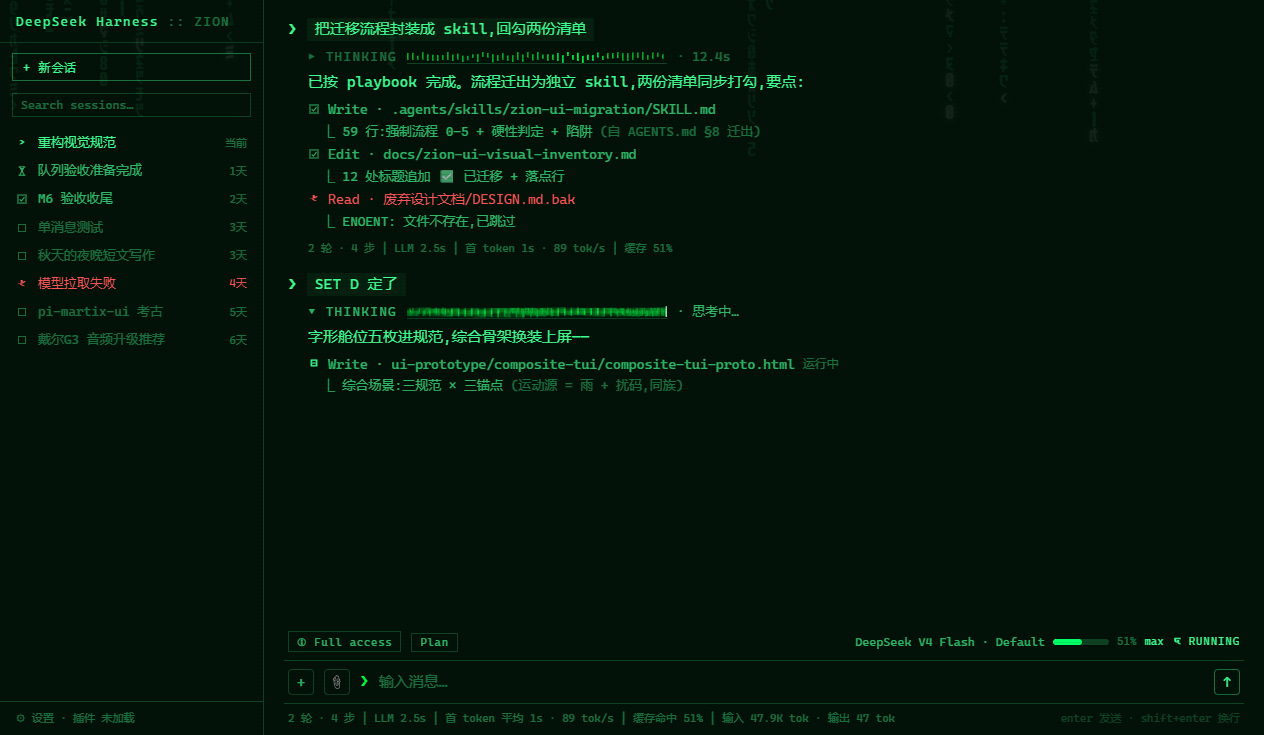
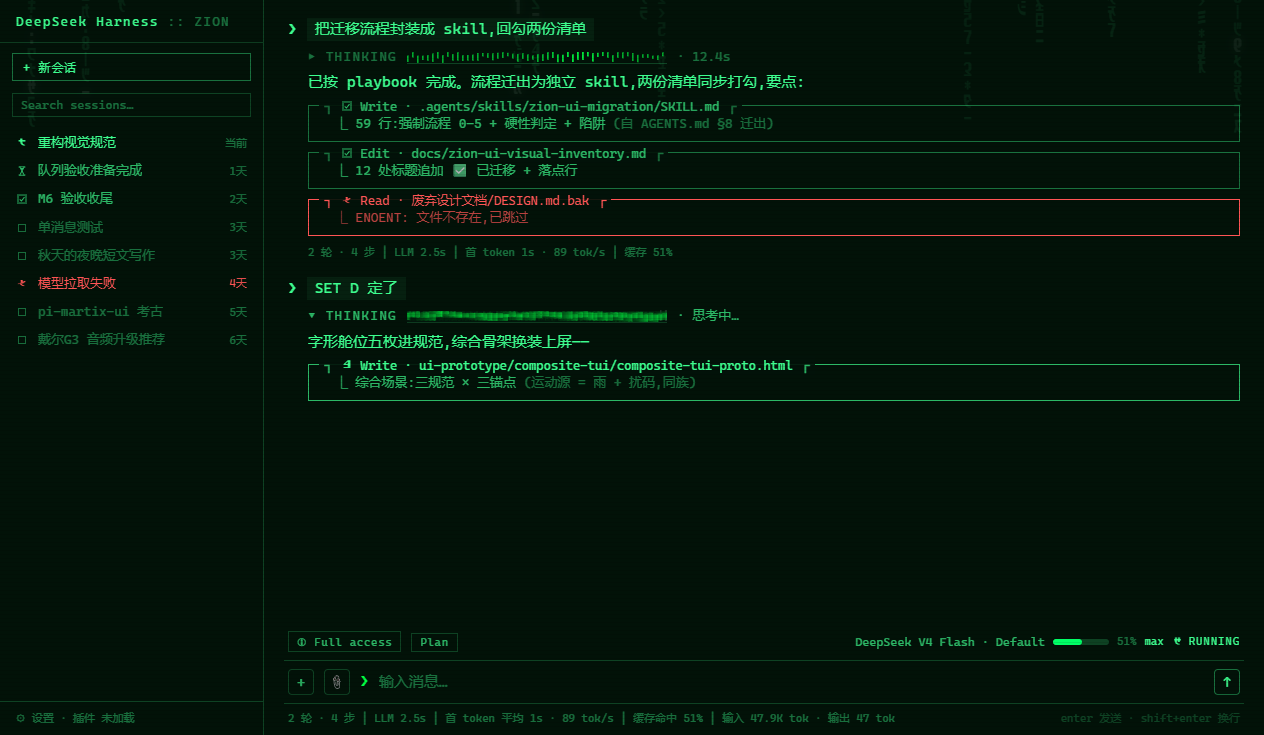
docs(design): 沉淀 §2.8 单行框线工具卡(C04+C05 notch 选定),composite 换装
- DESIGN.md §2.8:1px 单线框 + notch 标题嵌边,态只走框线亮度档(40/70/语义红)
- tool-card demo:A 直嵌 vs B 倒角对照,选定 B
- composite-tui 工具行全部升级为 notch 框线卡(done/run/err 三态)

Changed region(s): [[0.2468, 0.1197, 0.6788, 0.5388]]

diff --git a/ui-prototype/tool-card/tool-card-proto.html b/ui-prototype/tool-card/tool-card-proto.html
@@ -1,0 +1,161 @@
+<!DOCTYPE html>
+<!-- PROTOTYPE — throwaway: C04 单行框线工具卡 + C05 倒角标题 notch 微 demo
+     裁决问题:① 工具卡容器 = 单线框(无底色无阴影)是否成立;② 标题写法 A 直嵌 vs B 倒角 notch。
+     纪律:框线 1px 走 C11 亮度档(常态 40 / 运行 70 / 错误=唯一语义红);标题嵌进顶边不占内容行;
+     内容行沿用 C01 ⎿ 续行与 C12 SET D 图标;禁止卡片化(圆角/阴影/底色块)。 -->
+<html lang="zh">
+<head>
+<meta charset="utf-8">
+<title>C04+C05 · 单行框线工具卡</title>
+<style>
+  @font-face { font-family: "Matrix Code"; src: url("../../renderer/src/assets/fonts/Matrix-Code.ttf"); font-display: swap; }
+  :root {
+    --bg: #010a04;
+    --surface: rgba(2, 18, 9, 0.92);
+    --p100: rgba(61, 255, 143, 1);
+    --p70: rgba(61, 255, 143, 0.7);
+    --p40: rgba(61, 255, 143, 0.4);
+    --p20: rgba(61, 255, 143, 0.2);
+    --danger: #ff5555;
+    --font: "Share Tech Mono", ui-monospace, "Cascadia Mono", "Courier New", "Sarasa Term SC", "Microsoft YaHei", monospace;
+  }
+  * { margin: 0; padding: 0; box-sizing: border-box; }
+  body { background: var(--bg); color: var(--p100); font: 15px/1.55 var(--font); padding: 28px 32px; }
+  *::-webkit-scrollbar { width: 6px; height: 6px; }
+  *::-webkit-scrollbar-thumb { background: #00ff66; border-radius: 3px; }
+  *::-webkit-scrollbar-track, *::-webkit-scrollbar-corner { background: transparent; }
+
+  h1 { font-size: 13px; letter-spacing: 0.12em; margin-bottom: 4px; }
+  h1 .tag { color: var(--p40); }
+  .rule { color: var(--p70); font-size: 12px; margin-bottom: 22px; }
+  h2 { font-size: 11px; letter-spacing: 0.14em; color: var(--p70); margin: 24px 0 12px; text-transform: uppercase; }
+  h2::before { content: "─ "; color: var(--p40); }
+
+  .lane { border: 1px solid var(--p20); background: var(--surface); padding: 18px 20px; margin-bottom: 18px; }
+
+  /* ── 工具卡:单线框,标题嵌顶边 ── */
+  .tc { position: relative; border: 1px solid var(--p40); margin: 14px 0 0; padding: 9px 12px 8px; }
+  .tc:first-child { margin-top: 6px; }
+  .tc .cap { position: absolute; top: -0.72em; left: 10px; padding: 0 6px; background: var(--surface);
+    font-size: 12.5px; color: var(--p70); display: inline-flex; gap: 7px; align-items: center; white-space: nowrap; }
+  .tc .cap .ic svg { width: 12px; height: 12px; display: block; }
+  .tc .lines { font-size: 13px; color: var(--p70); }
+  .tc .lines .cmd { color: var(--p70); }
+  .tc .lines .out { color: var(--p70); padding-left: 14px; }
+  .tc .lines .out .x { color: var(--p40); }
+  .tc .lines .dim { color: var(--p40); }
+  /* 态:运行 = 70% 框 + 100% 标题;错误 = 语义红框(唯一红) */
+  .tc.run { border-color: var(--p70); }
+  .tc.run .cap { color: var(--p100); }
+  .tc.err { border-color: var(--danger); }
+  .tc.err .cap { color: var(--danger); }
+  .tc.err .lines, .tc.err .lines .out { color: var(--danger); opacity: 0.85; }
+  /* 倒角 notch:标题两侧反向角 ┐ ┌ */
+  .tc.notch .cap::before { content: "┐"; color: var(--p40); margin-right: 2px; }
+  .tc.notch .cap::after  { content: "┌"; color: var(--p40); margin-left: 2px; }
+  .tc.notch.run .cap::before, .tc.notch.run .cap::after { color: var(--p70); }
+  .tc.notch.err .cap::before, .tc.notch.err .cap::after { color: var(--danger); }
+
+  .ic { display: inline-flex; flex: none; }
+  .c-run { color: var(--p100); } .c-done { color: var(--p70); } .c-err { color: var(--danger); }
+  .dur { color: var(--p40); font-size: 11.5px; }
+
+  .note { color: var(--p40); font-size: 11px; line-height: 1.8; margin-top: 6px; }
+  .vs { display: grid; grid-template-columns: 1fr 1fr; gap: 20px; }
+</style>
+</head>
+<body>
+
+<h1>C04+C05 · 单行框线工具卡 <span class="tag">— A 直嵌标题 vs B 倒角 notch</span></h1>
+<div class="rule">容器:1px 单线框、无底色无阴影、标题嵌进顶边不占内容行。态 = 框线亮度档(常态 40 / 运行 70 / 错误红),不靠底色。内容行沿用 C01 ⎿ 与 SET D 图标。</div>
+
+<div class="vs">
+  <div>
+    <h2>A · 直嵌标题(┌─ Bash ── 式)</h2>
+    <div class="lane">
+      <div class="tc">
+        <span class="cap"><span class="ic c-done" data-k="done"></span>Edit · AGENTS.md</span>
+        <div class="lines"><div class="out">⎿ 3 处替换 · +12 −4 <span class="x">(0.2s)</span></div></div>
+      </div>
+      <div class="tc run">
+        <span class="cap"><span class="ic c-run" data-k="run"></span>Bash · npm test</span>
+        <div class="lines">
+          <div class="cmd">$ npm test</div>
+          <div class="out">⎿ 17/34 passed … <span class="x">(2.1s,流式)</span></div>
+        </div>
+      </div>
+      <div class="tc err">
+        <span class="cap"><span class="ic c-err" data-k="err"></span>Read · 缺失文件.ts</span>
+        <div class="lines"><div class="out">⎿ ENOENT: no such file or directory</div></div>
+      </div>
+      <div class="tc">
+        <span class="cap"><span class="ic c-done" data-k="done"></span>Grep · "风格路由"</span>
+        <div class="lines">
+          <div class="out">⎿ AGENTS.md:145 · SKILL.md:10 <span class="x">(2 文件 2 命中)</span></div>
+          <div class="out dim">⎿ 已折叠 4 行上下文 · 点击展开</div>
+        </div>
+      </div>
+    </div>
+  </div>
+  <div>
+    <h2>B · 倒角 notch(┐ title ┌ 式)</h2>
+    <div class="lane">
+      <div class="tc notch">
+        <span class="cap"><span class="ic c-done" data-k="done"></span>Edit · AGENTS.md</span>
+        <div class="lines"><div class="out">⎿ 3 处替换 · +12 −4 <span class="x">(0.2s)</span></div></div>
+      </div>
+      <div class="tc notch run">
+        <span class="cap"><span class="ic c-run" data-k="run"></span>Bash · npm test</span>
+        <div class="lines">
+          <div class="cmd">$ npm test</div>
+          <div class="out">⎿ 17/34 passed … <span class="x">(2.1s,流式)</span></div>
+        </div>
+      </div>
+      <div class="tc notch err">
+        <span class="cap"><span class="ic c-err" data-k="err"></span>Read · 缺失文件.ts</span>
+        <div class="lines"><div class="out">⎿ ENOENT: no such file or directory</div></div>
+      </div>
+      <div class="tc notch">
+        <span class="cap"><span class="ic c-done" data-k="done"></span>Grep · "风格路由"</span>
+        <div class="lines">
+          <div class="out">⎿ AGENTS.md:145 · SKILL.md:10 <span class="x">(2 文件 2 命中)</span></div>
+          <div class="out dim">⎿ 已折叠 4 行上下文 · 点击展开</div>
+        </div>
+      </div>
+    </div>
+  </div>
+</div>
+
+<h2>规则卡</h2>
+<div class="note">
+① 框线即全部容器:无圆角、无阴影、无底色块——「卡」只是 1px 线的围合。② 标题嵌顶边不占内容行;图标 = SET D(currentColor 随框线档)。③ 态只走亮度档:常态 40 / 运行 70(+ 扰码图标)/ 错误 = 全屏唯一语义红;不设第四态色。④ 内容行 = C01 ⎿ 续行,折叠/展开为整行点击(与官方 toggle 语义一致)。⑤ 被替代物:现有工具卡底色块 + 左侧色条 + 圆角。<br>
+实现备忘:demo 用 CSS border + 标题背景挖空实现「嵌边」;若落地时发现对齐问题,备选是纯 pre 字符画(──── 实字),二选一走落地裁决。
+</div>
+
+<script>
+const MXCHARS = 'アウエオカキケコサシスセソタツテナニヌネハヒホマミムメモヤヨラリワー012345789*+<>:|';
+const MXFONT = '"Matrix Code","Share Tech Mono",monospace';
+let clipSeq = 0;
+const ICON = {
+  run:  `<text class="mx-run" x="6" y="9.2" text-anchor="middle" font-family='${MXFONT}' font-size="9" fill="currentColor">ア</text>`,
+  done: `<rect x="2" y="2" width="8" height="8" fill="none" stroke="currentColor"/><path d="M3.7 6.3 L5.4 8 L8.5 4.1" fill="none" stroke="currentColor" stroke-width="1.1"/>`,
+};
+function glitchSvg() {
+  const n = ++clipSeq;
+  return `<clipPath id="mct${n}"><rect x="0" y="0" width="12" height="5.5"/></clipPath>` +
+    `<clipPath id="mcb${n}"><rect x="0" y="5.5" width="12" height="6.5"/></clipPath>` +
+    `<text x="6.9" y="9.2" text-anchor="middle" font-family='${MXFONT}' font-size="9" fill="currentColor" clip-path="url(#mct${n})">メ</text>` +
+    `<text x="5.1" y="9.2" text-anchor="middle" font-family='${MXFONT}' font-size="9" fill="currentColor" clip-path="url(#mcb${n})">メ</text>`;
+}
+document.querySelectorAll('.ic').forEach((el) => {
+  const k = el.dataset.k;
+  el.innerHTML = `<svg viewBox="0 0 12 12" aria-hidden="true">${k === 'err' ? glitchSvg() : ICON[k]}</svg>`;
+});
+setInterval(() => {
+  document.querySelectorAll('.mx-run').forEach((t) => {
+    t.textContent = MXCHARS[(Math.random() * MXCHARS.length) | 0];
+  });
+}, 120);
+</script>
+</body>
+</html>

diff --git a/ui-prototype/composite-tui/composite-tui-proto.html b/ui-prototype/composite-tui/composite-tui-proto.html
@@ -77,6 +77,22 @@
   .cont .x { color: var(--p40); }
   .cont .e { color: var(--danger); opacity: 0.8; }
   .meta { color: var(--p40); font-size: 11px; margin: 8px 0 0 20px; }
+  /* 单行框线工具卡(DESIGN.md §2.8,C04+C05 notch) */
+  .tc { position: relative; border: 1px solid var(--p40); margin: 10px 0 0 20px; padding: 8px 12px 7px; }
+  .tc .cap { position: absolute; top: -0.72em; left: 10px; padding: 0 6px; background: var(--surface);
+    font-size: 12.5px; color: var(--p70); display: inline-flex; gap: 7px; align-items: center; white-space: nowrap; }
+  .tc .cap .ic svg { width: 12px; height: 12px; display: block; }
+  .tc.notch .cap::before { content: "┐"; color: var(--p40); margin-right: 2px; }
+  .tc.notch .cap::after { content: "┌"; color: var(--p40); margin-left: 2px; }
+  .tc .lines { font-size: 13px; color: var(--p70); }
+  .tc .lines .out { padding-left: 14px; }
+  .tc .lines .out .x { color: var(--p40); }
+  .tc.run { border-color: var(--p70); }
+  .tc.run .cap { color: var(--p100); }
+  .tc.run.notch .cap::before, .tc.run.notch .cap::after { color: var(--p70); }
+  .tc.err { border-color: var(--danger); }
+  .tc.err .cap, .tc.err .cap::before, .tc.err .cap::after { color: var(--danger); }
+  .tc.err .lines, .tc.err .lines .out { color: var(--danger); opacity: 0.85; }
   /* 思考块磁带纹(DESIGN.md §2.7) */
   .thinkline { display: flex; gap: 10px; align-items: center; font-size: 13px; color: var(--p70); margin: 6px 0 2px 20px; }
   .thinkline.closed { color: var(--p40); }
@@ -142,19 +158,27 @@
       <div class="u"><span class="psign">❯</span><span class="utext">把迁移流程封装成 skill,回勾两份清单</span></div>
       <div class="thinkline closed"><span>▸</span><span class="st-tag">THINKING</span><span class="tape-track"><canvas data-tape="closed"></canvas></span><span>· 12.4s</span></div>
       <div class="body">已按 playbook 完成。流程迁出为独立 skill,两份清单同步打勾,要点:</div>
-      <div class="tool"><span class="ic c-done" data-k="done"></span><span class="tt">Write · .agents/skills/zion-ui-migration/SKILL.md</span></div>
-      <div class="cont">⎿ 59 行:强制流程 0–5 + 硬性判定 + 陷阱 <span class="x">(自 AGENTS.md §8 迁出)</span></div>
-      <div class="tool"><span class="ic c-done" data-k="done"></span><span class="tt">Edit · docs/zion-ui-visual-inventory.md</span></div>
-      <div class="cont">⎿ 12 处标题追加 ✅ 已迁移 + 落点行</div>
-      <div class="tool"><span class="ic c-err" data-k="err"></span><span class="tt" style="color:var(--danger)">Read · 废弃设计文档/DESIGN.md.bak</span></div>
-      <div class="cont e">⎿ ENOENT: 文件不存在,已跳过</div>
+      <div class="tc notch">
+        <span class="cap"><span class="ic c-done" data-k="done"></span>Write · .agents/skills/zion-ui-migration/SKILL.md</span>
+        <div class="lines"><div class="out">⎿ 59 行:强制流程 0–5 + 硬性判定 + 陷阱 <span class="x">(自 AGENTS.md §8 迁出)</span></div></div>
+      </div>
+      <div class="tc notch">
+        <span class="cap"><span class="ic c-done" data-k="done"></span>Edit · docs/zion-ui-visual-inventory.md</span>
+        <div class="lines"><div class="out">⎿ 12 处标题追加 ✅ 已迁移 + 落点行</div></div>
+      </div>
+      <div class="tc notch err">
+        <span class="cap"><span class="ic c-err" data-k="err"></span>Read · 废弃设计文档/DESIGN.md.bak</span>
+        <div class="lines"><div class="out">⎿ ENOENT: 文件不存在,已跳过</div></div>
+      </div>
       <div class="meta">2 轮 · 4 步 │ LLM 2.5s │ 首 token 1s · 89 tok/s │ 缓存 51%</div>
 
       <div class="u"><span class="psign">❯</span><span class="utext">SET D 定了</span></div>
       <div class="thinkline"><span>▾</span><span class="st-tag">THINKING</span><span class="tape-track"><canvas data-tape="live"></canvas></span><span>· 思考中…</span></div>
       <div class="body">字形舱位五枚进规范,综合骨架换装上屏——</div>
-      <div class="tool"><span class="ic c-run" data-k="run"></span><span class="tt">Write · ui-prototype/composite-tui/composite-tui-proto.html</span><span class="dur">运行中</span></div>
-      <div class="cont">⎿ 综合场景:三规范 × 三锚点 <span class="x">(运动源 = 雨 + 扰码,同族)</span></div>
+      <div class="tc notch run">
+        <span class="cap"><span class="ic c-run" data-k="run"></span>Write · ui-prototype/composite-tui/composite-tui-proto.html</span>
+        <div class="lines"><div class="out">⎿ 综合场景:三规范 × 三锚点 <span class="x">(运动源 = 雨 + 扰码,同族)</span></div></div>
+      </div>
     </div>
 
     <div class="inputbar">

diff --git a/DESIGN.md b/DESIGN.md
@@ -132,6 +132,17 @@ Matrix 的辨识度来自黑场、磷光绿、字形与状态叙事,不来自效
 
 > 验证:`ui-prototype/tape-variants/`(V0–V3 对照 + 组合节,2026-08-29 确认;慢波速度经一轮「不可察 → 1/2 速」迭代)。
 
+### 2.8 单行框线工具卡(C04 + C05 倒角 notch)
+
+工具卡 = 1px 单线框的围合——无圆角、无阴影、无底色块,「卡」只是线的边界。
+
+- **标题**:SET D 图标 + 工具名,嵌进顶边线(标题位背景挖空),两侧挂反向角 `┐ ┌`(notch);标题不占内容行。
+- **态只走框线亮度档**:常态 40 / 运行 70(框线)+ 扰码图标 / 错误 = 唯一语义红(框线与内容同红);不设第四态色,不另设权限/类别色。
+- **内容行** = C01 `⎿` 续行;折叠/展开为整行点击(与官方 toggle 语义一致)。
+- 被替代物:工具卡底色块、左侧色条、圆角(既有样式属待修正)。
+
+> 验证:`ui-prototype/tool-card/`(A 直嵌 vs B notch 对照,2026-08-29 选 B)。
+
 ## 3. 不可交换的边界
 
 风格可以重做,以下边界不因任何风格任务豁免:
